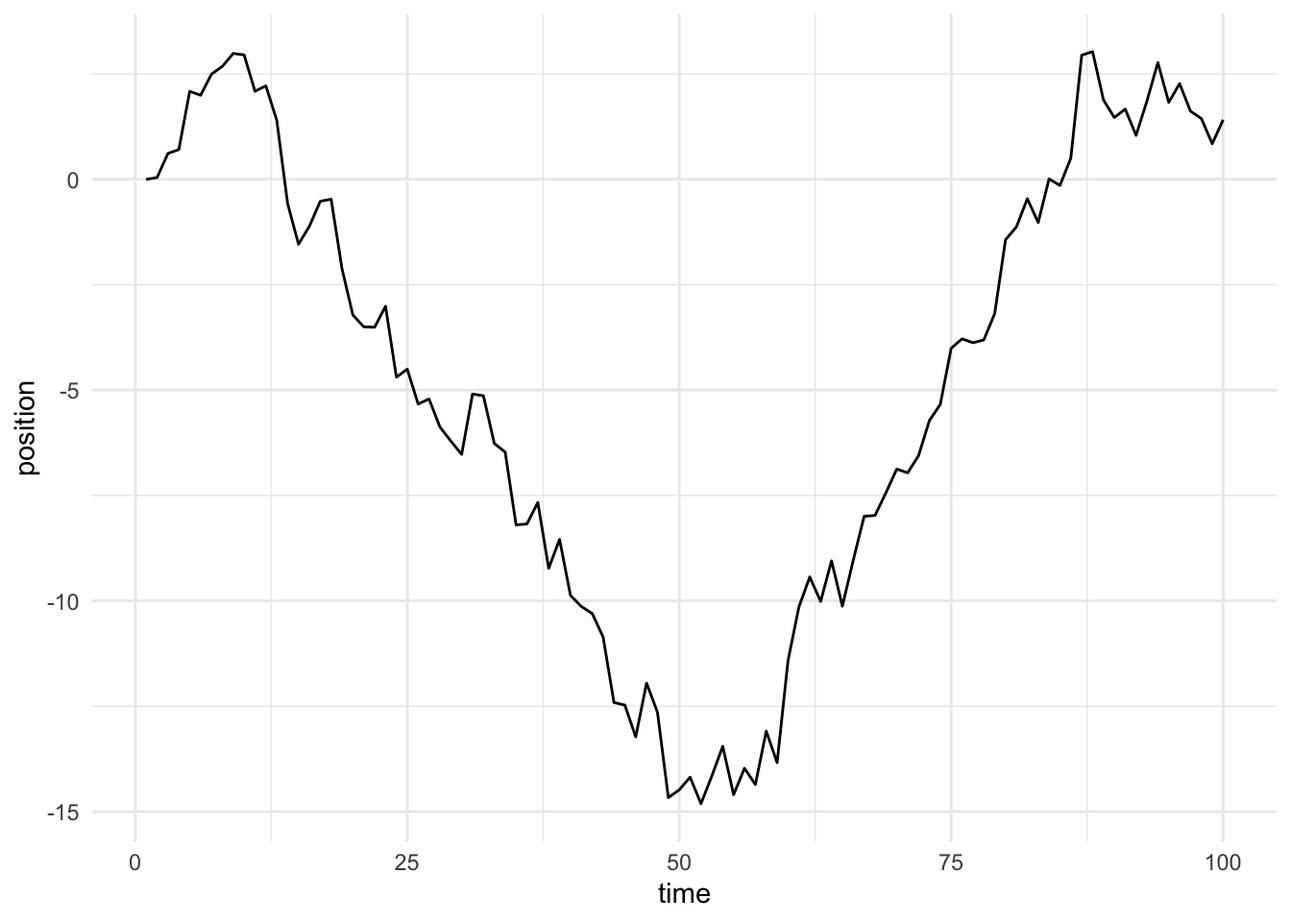
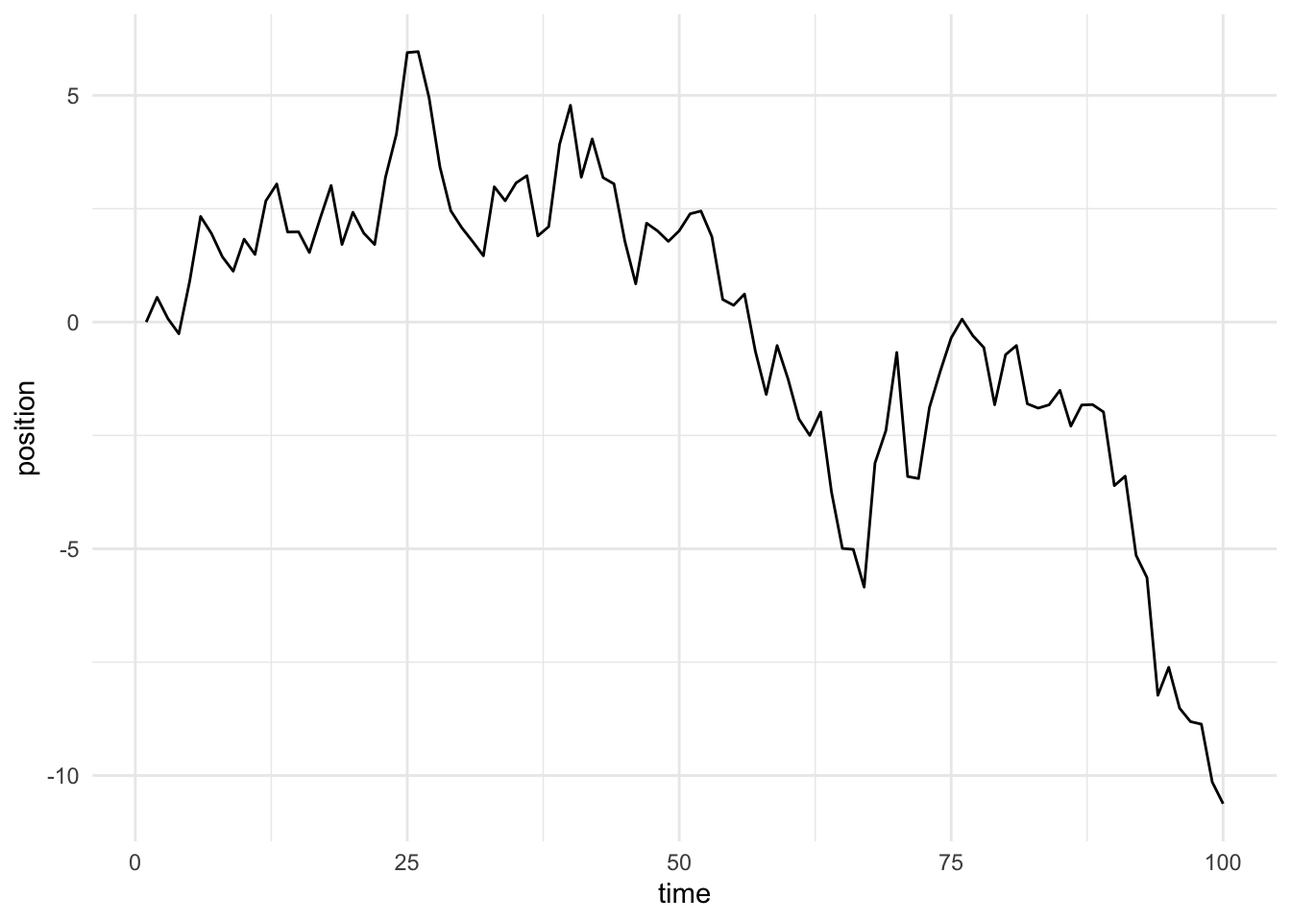
reorder

diff --git a/docs/stats-in-the-wild.html b/docs/stats-in-the-wild.html
@@ -171,9 +171,9 @@ gtag('config', '358809638', { 'anonymize_ip': true});
 <ul>
 <li><p><strong>March-November 2020 - Everyone:</strong> A 20% false negative rate on COVID-19 rapid tests means that when a test says you’re negative, there’s a 20% chance you’re positive.</p></li>
 <li><p><strong>11/7/20 - <del><span class="citation" data-cites="realDonaldTrump">@realDonaldTrump</span></del> A soon-to-be quarantined Twitter account:</strong></p>
-<p></p><div id="tweet-64174"></div><script>tweet={"url":"https:\/\/twitter.com\/realDonaldTrump\/status\/1325099845045071873","author_name":"Donald J. Trump","author_url":"https:\/\/twitter.com\/realDonaldTrump","html":"\u003Cblockquote class=\"twitter-tweet\" align=\"center\"\u003E\u003Cp lang=\"en\" dir=\"ltr\"\u003EI WON THIS ELECTION, BY A LOT!\u003C\/p\u003E&mdash; Donald J. Trump (@realDonaldTrump) \u003Ca href=\"https:\/\/twitter.com\/realDonaldTrump\/status\/1325099845045071873?ref_src=twsrc%5Etfw\"\u003ENovember 7, 2020\u003C\/a\u003E\u003C\/blockquote\u003E\n\u003Cscript async src=\"https:\/\/platform.twitter.com\/widgets.js\" charset=\"utf-8\"\u003E\u003C\/script\u003E\n","width":550,"height":null,"type":"rich","cache_age":"3153600000","provider_name":"Twitter","provider_url":"https:\/\/twitter.com","version":"1.0"};document.getElementById("tweet-64174").innerHTML = tweet["html"];</script><p></p></li>
+<p></p><div id="tweet-67033"></div><script>tweet={"url":"https:\/\/twitter.com\/realDonaldTrump\/status\/1325099845045071873","author_name":"Donald J. Trump","author_url":"https:\/\/twitter.com\/realDonaldTrump","html":"\u003Cblockquote class=\"twitter-tweet\" align=\"center\"\u003E\u003Cp lang=\"en\" dir=\"ltr\"\u003EI WON THIS ELECTION, BY A LOT!\u003C\/p\u003E&mdash; Donald J. Trump (@realDonaldTrump) \u003Ca href=\"https:\/\/twitter.com\/realDonaldTrump\/status\/1325099845045071873?ref_src=twsrc%5Etfw\"\u003ENovember 7, 2020\u003C\/a\u003E\u003C\/blockquote\u003E\n\u003Cscript async src=\"https:\/\/platform.twitter.com\/widgets.js\" charset=\"utf-8\"\u003E\u003C\/script\u003E\n","width":550,"height":null,"type":"rich","cache_age":"3153600000","provider_name":"Twitter","provider_url":"https:\/\/twitter.com","version":"1.0"};document.getElementById("tweet-67033").innerHTML = tweet["html"];</script><p></p></li>
 <li><p><strong>10/3/20 - Twitter:</strong></p>
-<p></p><div id="tweet-13281"></div><script>tweet={"url":"https:\/\/twitter.com\/RickGosselin9\/status\/1312368088499838976","author_name":"Rick Gosselin","author_url":"https:\/\/twitter.com\/RickGosselin9","html":"\u003Cblockquote class=\"twitter-tweet\" align=\"center\"\u003E\u003Cp lang=\"en\" dir=\"ltr\"\u003EThe most incredible stat about the late Bob Gibson is that he pitched more complete games (255) than he had wins (251). The man was his own bullpen. RIP.\u003C\/p\u003E&mdash; Rick Gosselin (@RickGosselin9) \u003Ca href=\"https:\/\/twitter.com\/RickGosselin9\/status\/1312368088499838976?ref_src=twsrc%5Etfw\"\u003EOctober 3, 2020\u003C\/a\u003E\u003C\/blockquote\u003E\n\u003Cscript async src=\"https:\/\/platform.twitter.com\/widgets.js\" charset=\"utf-8\"\u003E\u003C\/script\u003E\n","width":550,"height":null,"type":"rich","cache_age":"3153600000","provider_name":"Twitter","provider_url":"https:\/\/twitter.com","version":"1.0"};document.getElementById("tweet-13281").innerHTML = tweet["html"];</script><p></p></li>
+<p></p><div id="tweet-67984"></div><script>tweet={"url":"https:\/\/twitter.com\/RickGosselin9\/status\/1312368088499838976","author_name":"Rick Gosselin","author_url":"https:\/\/twitter.com\/RickGosselin9","html":"\u003Cblockquote class=\"twitter-tweet\" align=\"center\"\u003E\u003Cp lang=\"en\" dir=\"ltr\"\u003EThe most incredible stat about the late Bob Gibson is that he pitched more complete games (255) than he had wins (251). The man was his own bullpen. RIP.\u003C\/p\u003E&mdash; Rick Gosselin (@RickGosselin9) \u003Ca href=\"https:\/\/twitter.com\/RickGosselin9\/status\/1312368088499838976?ref_src=twsrc%5Etfw\"\u003EOctober 3, 2020\u003C\/a\u003E\u003C\/blockquote\u003E\n\u003Cscript async src=\"https:\/\/platform.twitter.com\/widgets.js\" charset=\"utf-8\"\u003E\u003C\/script\u003E\n","width":550,"height":null,"type":"rich","cache_age":"3153600000","provider_name":"Twitter","provider_url":"https:\/\/twitter.com","version":"1.0"};document.getElementById("tweet-67984").innerHTML = tweet["html"];</script><p></p></li>
 <li><p><strong>9/30/20:</strong> As of today, the Minnesota Twins have lost 18 consecutive playoff games.</p></li>
 <li><p><strong>9/28/20 - FanGraphs:</strong> Fernando Tatis Jr.’s BABIP and wRC+ by month in 2020.</p></li>
 </ul>
@@ -184,11 +184,11 @@ gtag('config', '358809638', { 'anonymize_ip': true});
 <li><p><strong>9/28/2020:</strong> Shane Bieber’s 2020 K/9 rate was 14.20. Although the season was shortened, if he had kept up that pace it would have been the highest K/9 rate for a starting pitcher of all time.</p></li>
 <li><p><strong>9/26/2020 - NY Times, paraphrased:</strong> A majority of voters favor the open Supreme Court seat being filled after the election, our poll found.</p></li>
 <li><p><strong>9/15/20 - Twitter:</strong></p>
-<p></p><div id="tweet-56021"></div><script>tweet={"url":"https:\/\/twitter.com\/MLBRandomStats\/status\/1305912658554740736","author_name":"Jeremy Frank","author_url":"https:\/\/twitter.com\/MLBRandomStats","html":"\u003Cblockquote class=\"twitter-tweet\" align=\"center\"\u003E\u003Cp lang=\"en\" dir=\"ltr\"\u003EMike Trout is hitting .294\/.385\/.647.... in plate appearances where he falls down 0-2 in the count\u003C\/p\u003E&mdash; Jeremy Frank (@MLBRandomStats) \u003Ca href=\"https:\/\/twitter.com\/MLBRandomStats\/status\/1305912658554740736?ref_src=twsrc%5Etfw\"\u003ESeptember 15, 2020\u003C\/a\u003E\u003C\/blockquote\u003E\n\u003Cscript async src=\"https:\/\/platform.twitter.com\/widgets.js\" charset=\"utf-8\"\u003E\u003C\/script\u003E\n","width":550,"height":null,"type":"rich","cache_age":"3153600000","provider_name":"Twitter","provider_url":"https:\/\/twitter.com","version":"1.0"};document.getElementById("tweet-56021").innerHTML = tweet["html"];</script><p></p></li>
+<p></p><div id="tweet-88127"></div><script>tweet={"url":"https:\/\/twitter.com\/MLBRandomStats\/status\/1305912658554740736","author_name":"Jeremy Frank","author_url":"https:\/\/twitter.com\/MLBRandomStats","html":"\u003Cblockquote class=\"twitter-tweet\" align=\"center\"\u003E\u003Cp lang=\"en\" dir=\"ltr\"\u003EMike Trout is hitting .294\/.385\/.647.... in plate appearances where he falls down 0-2 in the count\u003C\/p\u003E&mdash; Jeremy Frank (@MLBRandomStats) \u003Ca href=\"https:\/\/twitter.com\/MLBRandomStats\/status\/1305912658554740736?ref_src=twsrc%5Etfw\"\u003ESeptember 15, 2020\u003C\/a\u003E\u003C\/blockquote\u003E\n\u003Cscript async src=\"https:\/\/platform.twitter.com\/widgets.js\" charset=\"utf-8\"\u003E\u003C\/script\u003E\n","width":550,"height":null,"type":"rich","cache_age":"3153600000","provider_name":"Twitter","provider_url":"https:\/\/twitter.com","version":"1.0"};document.getElementById("tweet-88127").innerHTML = tweet["html"];</script><p></p></li>
 <li><p><strong>9/12/20 - Lakers vs.&nbsp;Rockets Broadcast on ESPN:</strong> The Lakers are 31-1 in series once they go up 3-1.</p></li>
 <li><p><strong>9/6/20:</strong> As of the end of the Orioles game on 9/5/2020, DJ Stewart had a batting average of .105 and a slugging percentage of .421.</p></li>
 <li><p><strong>8/8/20 - Nate Silver:</strong> The whole conversation between Silver and Morris.</p>
-<p></p><div id="tweet-90895"></div><script>tweet={"url":"https:\/\/twitter.com\/NateSilver538\/status\/1292287935405010947","author_name":"Nate Silver","author_url":"https:\/\/twitter.com\/NateSilver538","html":"\u003Cblockquote class=\"twitter-tweet\" align=\"center\"\u003E\u003Cp lang=\"en\" dir=\"ltr\"\u003ETo put it another way, the easy part of forecasting is fitting a model and the hard part is knowing when the best fit on past data will yield a worse forecast on unknown data.\u003C\/p\u003E&mdash; Nate Silver (@NateSilver538) \u003Ca href=\"https:\/\/twitter.com\/NateSilver538\/status\/1292287935405010947?ref_src=twsrc%5Etfw\"\u003EAugust 9, 2020\u003C\/a\u003E\u003C\/blockquote\u003E\n\u003Cscript async src=\"https:\/\/platform.twitter.com\/widgets.js\" charset=\"utf-8\"\u003E\u003C\/script\u003E\n","width":550,"height":null,"type":"rich","cache_age":"3153600000","provider_name":"Twitter","provider_url":"https:\/\/twitter.com","version":"1.0"};document.getElementById("tweet-90895").innerHTML = tweet["html"];</script><p></p></li>
+<p></p><div id="tweet-68391"></div><script>tweet={"url":"https:\/\/twitter.com\/NateSilver538\/status\/1292287935405010947","author_name":"Nate Silver","author_url":"https:\/\/twitter.com\/NateSilver538","html":"\u003Cblockquote class=\"twitter-tweet\" align=\"center\"\u003E\u003Cp lang=\"en\" dir=\"ltr\"\u003ETo put it another way, the easy part of forecasting is fitting a model and the hard part is knowing when the best fit on past data will yield a worse forecast on unknown data.\u003C\/p\u003E&mdash; Nate Silver (@NateSilver538) \u003Ca href=\"https:\/\/twitter.com\/NateSilver538\/status\/1292287935405010947?ref_src=twsrc%5Etfw\"\u003EAugust 9, 2020\u003C\/a\u003E\u003C\/blockquote\u003E\n\u003Cscript async src=\"https:\/\/platform.twitter.com\/widgets.js\" charset=\"utf-8\"\u003E\u003C\/script\u003E\n","width":550,"height":null,"type":"rich","cache_age":"3153600000","provider_name":"Twitter","provider_url":"https:\/\/twitter.com","version":"1.0"};document.getElementById("tweet-68391").innerHTML = tweet["html"];</script><p></p></li>
 <li><p><strong>7/30/20 - NY Times, paraphrased:</strong> U.S. economic output fell by 9% last quarter. That translates to a 36% annual rate of decline.</p></li>
 <li><p><strong>7/23/20 - ESPN Opening Day Broadcast of Yankees-Nationals:</strong> Max Scherzer is the first pitcher since 1893 to strike out ten or more batters in three consecutive opening day starts.</p></li>
 <li><p><strong>7/13/20 - The Economist:</strong> As of today, July 13, 2020, The Economist’s presidential prediction (co-signed by Gelman) gives Biden a 91% chance of winning the election.</p>
@@ -203,10 +203,10 @@ gtag('config', '358809638', { 'anonymize_ip': true});
 <script async="" src="https://embed.reddit.com/widgets.js" charset="UTF-8"></script></li>
 <li><p><strong>6/11/20 - NPR Up First Podcast:</strong> “Joe Biden has substantial leads in a wave of new polls, and many of them are ten point leads. And as to the ‘What about 2016?’ response that I can already hear listeners saying into my ears, here’s the big difference: Joe Biden is over 50% in a lot of those polls, and that is a mark that Hillary Clinton very rarely got to, that makes the lead a lot more durable.” The “What about 2016” critique being referenced is the fact that many news outlets (Huffington Post, NY Times, etc.) gave Clinton greater than a 95% chance of winning the election (FiveThirtyEight gave her around a 65-70% chance, at best). Obviously, she ended up losing, sparking outrage towards and confusion over those seemingly overly-optimistic projections. As of today, June 11th, 2020, <a href="https://www.predictit.org/markets/detail/3698">PredictIt</a> gives Biden <em>roughly</em> a 55% chance of winning.</p></li>
 <li><p><strong>6/6/20 - CNBC:</strong> A V-shaped recovery!</p>
-<p></p><div id="tweet-52437"></div><script>tweet={"url":"https:\/\/twitter.com\/CNBC\/status\/1268927124452380672","author_name":"CNBC","author_url":"https:\/\/twitter.com\/CNBC","html":"\u003Cblockquote class=\"twitter-tweet\" align=\"center\"\u003E\u003Cp lang=\"en\" dir=\"ltr\"\u003EThe better-than-expected jobs report follows a series of other recent data that points to a V-shaped recovery. Take a look at these charts: \u003Ca href=\"https:\/\/t.co\/npQxnfQ6mh\"\u003Ehttps:\/\/t.co\/npQxnfQ6mh\u003C\/a\u003E \u003Ca href=\"https:\/\/t.co\/VFfZjVMaUz\"\u003Epic.twitter.com\/VFfZjVMaUz\u003C\/a\u003E\u003C\/p\u003E&mdash; CNBC (@CNBC) \u003Ca href=\"https:\/\/twitter.com\/CNBC\/status\/1268927124452380672?ref_src=twsrc%5Etfw\"\u003EJune 5, 2020\u003C\/a\u003E\u003C\/blockquote\u003E\n\u003Cscript async src=\"https:\/\/platform.twitter.com\/widgets.js\" charset=\"utf-8\"\u003E\u003C\/script\u003E\n","width":550,"height":null,"type":"rich","cache_age":"3153600000","provider_name":"Twitter","provider_url":"https:\/\/twitter.com","version":"1.0"};document.getElementById("tweet-52437").innerHTML = tweet["html"];</script><p></p></li>
+<p></p><div id="tweet-56849"></div><script>tweet={"url":"https:\/\/twitter.com\/CNBC\/status\/1268927124452380672","author_name":"CNBC","author_url":"https:\/\/twitter.com\/CNBC","html":"\u003Cblockquote class=\"twitter-tweet\" align=\"center\"\u003E\u003Cp lang=\"en\" dir=\"ltr\"\u003EThe better-than-expected jobs report follows a series of other recent data that points to a V-shaped recovery. Take a look at these charts: \u003Ca href=\"https:\/\/t.co\/npQxnfQ6mh\"\u003Ehttps:\/\/t.co\/npQxnfQ6mh\u003C\/a\u003E \u003Ca href=\"https:\/\/t.co\/VFfZjVMaUz\"\u003Epic.twitter.com\/VFfZjVMaUz\u003C\/a\u003E\u003C\/p\u003E&mdash; CNBC (@CNBC) \u003Ca href=\"https:\/\/twitter.com\/CNBC\/status\/1268927124452380672?ref_src=twsrc%5Etfw\"\u003EJune 5, 2020\u003C\/a\u003E\u003C\/blockquote\u003E\n\u003Cscript async src=\"https:\/\/platform.twitter.com\/widgets.js\" charset=\"utf-8\"\u003E\u003C\/script\u003E\n","width":550,"height":null,"type":"rich","cache_age":"3153600000","provider_name":"Twitter","provider_url":"https:\/\/twitter.com","version":"1.0"};document.getElementById("tweet-56849").innerHTML = tweet["html"];</script><p></p></li>
 <li><p><strong>5/14/20 - FiveThirtyEight Politics Podcast:</strong> When asked who they voted for in an election, a larger share of people respond that they had voted for the winning candidate than the share that actually voted for said candidate.</p></li>
 <li><p><strong>5/5/20 - CEA:</strong> (oh my god, people are going to die because of this)</p>
-<p></p><div id="tweet-15676"></div><script>tweet={"url":"https:\/\/twitter.com\/WhiteHouseCEA45\/status\/1257680258364555264","author_name":"CEA45 Archived","author_url":"https:\/\/twitter.com\/WhiteHouseCEA45","html":"\u003Cblockquote class=\"twitter-tweet\" align=\"center\"\u003E\u003Cp lang=\"en\" dir=\"ltr\"\u003ETo better visualize observed data, we also continually update a curve-fitting exercise to summarize COVID-19&#39;s observed trajectory. Particularly with irregular data, curve fitting can improve data visualization. As shown, IHME&#39;s mortality curves have matched the data fairly well. \u003Ca href=\"https:\/\/t.co\/NtJcOdA98R\"\u003Epic.twitter.com\/NtJcOdA98R\u003C\/a\u003E\u003C\/p\u003E&mdash; CEA45 Archived (@WhiteHouseCEA45) \u003Ca href=\"https:\/\/twitter.com\/WhiteHouseCEA45\/status\/1257680258364555264?ref_src=twsrc%5Etfw\"\u003EMay 5, 2020\u003C\/a\u003E\u003C\/blockquote\u003E\n\u003Cscript async src=\"https:\/\/platform.twitter.com\/widgets.js\" charset=\"utf-8\"\u003E\u003C\/script\u003E\n","width":550,"height":null,"type":"rich","cache_age":"3153600000","provider_name":"Twitter","provider_url":"https:\/\/twitter.com","version":"1.0"};document.getElementById("tweet-15676").innerHTML = tweet["html"];</script><p></p></li>
+<p></p><div id="tweet-81152"></div><script>tweet={"url":"https:\/\/twitter.com\/WhiteHouseCEA45\/status\/1257680258364555264","author_name":"CEA45 Archived","author_url":"https:\/\/twitter.com\/WhiteHouseCEA45","html":"\u003Cblockquote class=\"twitter-tweet\" align=\"center\"\u003E\u003Cp lang=\"en\" dir=\"ltr\"\u003ETo better visualize observed data, we also continually update a curve-fitting exercise to summarize COVID-19&#39;s observed trajectory. Particularly with irregular data, curve fitting can improve data visualization. As shown, IHME&#39;s mortality curves have matched the data fairly well. \u003Ca href=\"https:\/\/t.co\/NtJcOdA98R\"\u003Epic.twitter.com\/NtJcOdA98R\u003C\/a\u003E\u003C\/p\u003E&mdash; CEA45 Archived (@WhiteHouseCEA45) \u003Ca href=\"https:\/\/twitter.com\/WhiteHouseCEA45\/status\/1257680258364555264?ref_src=twsrc%5Etfw\"\u003EMay 5, 2020\u003C\/a\u003E\u003C\/blockquote\u003E\n\u003Cscript async src=\"https:\/\/platform.twitter.com\/widgets.js\" charset=\"utf-8\"\u003E\u003C\/script\u003E\n","width":550,"height":null,"type":"rich","cache_age":"3153600000","provider_name":"Twitter","provider_url":"https:\/\/twitter.com","version":"1.0"};document.getElementById("tweet-81152").innerHTML = tweet["html"];</script><p></p></li>
 <li><p><strong>4/2/20 - FiveThirtyEight:</strong> <a href="https://fivethirtyeight.com/features/best-case-and-worst-case-coronavirus-forecasts-are-very-far-apart/">This FiveThirtyEight article.</a></p></li>
 <li><p><strong>4/2/20 - The New York Times:</strong> <a href="https://www.nytimes.com/interactive/2020/04/02/us/coronavirus-social-distancing.html">These maps.</a></p></li>
 <li><p><strong>3/15/20 - FiveThirtyEight:</strong> Teams with Cristiano Ronaldo on them are 5-0 against Atletico Madrid in Champions League knockout stage games in the last 10 years. Everyone else is 0-9.</p></li>

diff --git a/docs/posts/2021-01-13-a-gentle-introduction-to-markov-chains-and-mcmc/index.html b/docs/posts/2021-01-13-a-gentle-introduction-to-markov-chains-and-mcmc/index.html
@@ -312,15 +312,15 @@ p(x_{t+1} | x_{t}, x_{t-1}, x_{t-2}, .. x_{0}) = p(x_{t+1} | x_{t})
    position
       &lt;dbl&gt;
  1   0     
- 2   0.0434
- 3   0.615 
- 4   0.707 
- 5   2.09  
- 6   1.99  
- 7   2.49  
- 8   2.68  
- 9   2.99  
-10   2.95  
+ 2   0.546 
+ 3   0.0744
+ 4  -0.257 
+ 5   0.905 
+ 6   2.33  
+ 7   1.95  
+ 8   1.44  
+ 9   1.12  
+10   1.83  
 # … with 90 more rows</code></pre>
 </div>
 </div>
@@ -454,13 +454,13 @@ p(x_{t+1} | x_{t}, x_{t-1}, x_{t-2}, .. x_{0}) = p(x_{t+1} | x_{t})
 <pre><code># A tibble: 4 × 4
   island days_spent day_proportion error_margin
    &lt;dbl&gt;      &lt;int&gt;          &lt;dbl&gt;        &lt;dbl&gt;
-1      1       1022          0.102      0.0220 
-2      2       2042          0.204      0.0210 
-3      3       2985          0.298     -0.00500
-4      4       3951          0.395     -0.0122 </code></pre>
+1      1       1002          0.100      0.00200
+2      2       1940          0.194     -0.0300 
+3      3       3023          0.302      0.00767
+4      4       4035          0.404      0.00875</code></pre>
 </div>
 </div>
-<p>Much better! After 10,000 iterations, we’re spending almost the exact proportion of time on each island that we want to be, as evidenced by the tiny error margins. In addition, the standard deviation of the error margins is 0.01765, which is tiny. That’s awesome! But what about if the system is more complex? Like, what if we had 100 islands?</p>
+<p>Much better! After 10,000 iterations, we’re spending almost the exact proportion of time on each island that we want to be, as evidenced by the tiny error margins. In addition, the standard deviation of the error margins is 0.01831, which is tiny. That’s awesome! But what about if the system is more complex? Like, what if we had 100 islands?</p>
 <div class="cell" data-layout-align="center">
 <div class="sourceCode cell-code" id="cb10"><pre class="sourceCode r code-with-copy"><code class="sourceCode r"><span id="cb10-1"><a href="#cb10-1" aria-hidden="true" tabindex="-1"></a>more_islands <span class="ot">&lt;-</span> <span class="fu">run_rwmh</span>(<span class="at">n_iters =</span> <span class="dv">10000</span>, <span class="at">island_populations =</span> <span class="dv">1</span><span class="sc">:</span><span class="dv">100</span>) <span class="sc">%&gt;%</span></span>
 <span id="cb10-2"><a href="#cb10-2" aria-hidden="true" tabindex="-1"></a>  <span class="fu">tibble</span>(<span class="at">island =</span> .) <span class="sc">%&gt;%</span></span>
@@ -476,20 +476,20 @@ p(x_{t+1} | x_{t}, x_{t-1}, x_{t-2}, .. x_{0}) = p(x_{t+1} | x_{t})
 <pre><code># A tibble: 100 × 4
    island days_spent day_proportion error_margin
     &lt;dbl&gt;      &lt;int&gt;          &lt;dbl&gt;        &lt;dbl&gt;
- 1      1          1         0.0001      -0.495 
- 2      2          3         0.0003      -0.243 
- 3      3          6         0.0006       0.0100
- 4      4         11         0.0011       0.389 
- 5      5         11         0.0011       0.111 
- 6      6         17         0.0017       0.431 
- 7      7         15         0.0015       0.0821
- 8      8         17         0.0017       0.0731
- 9      9         19         0.0019       0.0661
-10     10         14         0.0014      -0.293 
+ 1      1          2         0.0002       0.0100
+ 2      2          8         0.0008       1.02  
+ 3      3          4         0.0004      -0.327 
+ 4      4          6         0.0006      -0.243 
+ 5      5          8         0.0008      -0.192 
+ 6      6         13         0.0013       0.0942
+ 7      7         22         0.0022       0.587 
+ 8      8         14         0.0014      -0.116 
+ 9      9         11         0.0011      -0.383 
+10     10         16         0.0016      -0.192 
 # … with 90 more rows</code></pre>
 </div>
 </div>
-<p>No problem! Even with the extra islands, the mean error margin is still zero, and the standard deviation of the error margins is 0.15951, which is also small, but not as small as the simpler system. It’s true that a more complex system (i.e.&nbsp;more islands) would mean that we need more iterations to converge in probability to the proportions we’re shooting for, but the algorithm will still work with enough time. Let’s try running it one more time on the complex system, but this time with a million iterations.</p>
+<p>No problem! Even with the extra islands, the mean error margin is still zero, and the standard deviation of the error margins is 0.18309, which is also small, but not as small as the simpler system. It’s true that a more complex system (i.e.&nbsp;more islands) would mean that we need more iterations to converge in probability to the proportions we’re shooting for, but the algorithm will still work with enough time. Let’s try running it one more time on the complex system, but this time with a million iterations.</p>
 <div class="cell" data-layout-align="center">
 <div class="sourceCode cell-code" id="cb12"><pre class="sourceCode r code-with-copy"><code class="sourceCode r"><span id="cb12-1"><a href="#cb12-1" aria-hidden="true" tabindex="-1"></a>more_iters <span class="ot">&lt;-</span> <span class="fu">run_rwmh</span>(<span class="at">n_iters =</span> <span class="dv">1000000</span>, <span class="at">island_populations =</span> <span class="dv">1</span><span class="sc">:</span><span class="dv">100</span>) <span class="sc">%&gt;%</span></span>
 <span id="cb12-2"><a href="#cb12-2" aria-hidden="true" tabindex="-1"></a>  <span class="fu">tibble</span>(<span class="at">island =</span> .) <span class="sc">%&gt;%</span></span>
@@ -505,20 +505,20 @@ p(x_{t+1} | x_{t}, x_{t-1}, x_{t-2}, .. x_{0}) = p(x_{t+1} | x_{t})
 <pre><code># A tibble: 100 × 4
    island days_spent day_proportion error_margin
     &lt;dbl&gt;      &lt;int&gt;          &lt;dbl&gt;        &lt;dbl&gt;
- 1      1        229       0.000229      0.156  
- 2      2        404       0.000404      0.0201 
- 3      3        576       0.000576     -0.0304 
- 4      4        779       0.000779     -0.0165 
- 5      5       1009       0.00101       0.0191 
- 6      6       1207       0.00121       0.0159 
- 7      7       1336       0.00134      -0.0362 
- 8      8       1576       0.00158      -0.00515
- 9      9       1740       0.00174      -0.0237 
-10     10       1974       0.00197      -0.00313
+ 1      1        210       0.00021       0.0605 
+ 2      2        388       0.000388     -0.0203 
+ 3      3        624       0.000624      0.0504 
+ 4      4        808       0.000808      0.0201 
+ 5      5       1013       0.00101       0.0231 
+ 6      6       1218       0.00122       0.0252 
+ 7      7       1378       0.00138      -0.00587
+ 8      8       1579       0.00158      -0.00326
+ 9      9       1846       0.00185       0.0358 
+10     10       1934       0.00193      -0.0233 
 # … with 90 more rows</code></pre>
 </div>
 </div>
-<p>Looks like that did the trick! The standard deviation of the error margins fell to 0.02297, just as we expected.</p>
+<p>Looks like that did the trick! The standard deviation of the error margins fell to 0.01698, just as we expected.</p>
 <p>This algorithm is called the Metropolis-Hastings Algorithm, and it’s one of many in the class of Markov Chain Monte Carlo algorithms. Some others are the Gibbs Sampler and Hamiltonian Monte Carlo, both of which are frequently used in Bayesian statistics for estimating the parameters of regression models with hundreds of thousands of parameters. In short, these algorithms allow us to solve problems that were literally impossible to solve only two decades ago or so, which is an amazing feat!</p>
 </section>
 <section id="recap" class="level1">

diff --git a/docs/travel.html b/docs/travel.html
@@ -158,40 +158,40 @@ gtag('config', '358809638', { 'anonymize_ip': true});
 
 </header>
 
-<p><img src="photos/travel/arbeit-macht-frei.jpg" class="img-fluid" style="width:100.0%"></p>
-<p><img src="photos/travel/guell-1.jpg" class="img-fluid" style="width:100.0%"></p>
-<p><img src="photos/travel/chichen-itza.jpg" class="img-fluid" style="width:100.0%"></p>
-<p><img src="photos/travel/times-square-covid.jpg" class="img-fluid" style="width:100.0%"></p>
-<p><img src="photos/travel/sarajevo-bobsled.jpg" class="img-fluid" style="width:100.0%"></p>
-<p><img src="photos/travel/positano.jpg" class="img-fluid" style="width:100.0%"></p>
-<p><img src="photos/travel/dubrovnik.jpg" class="img-fluid" style="width:100.0%"></p>
-<p><img src="photos/travel/sol-32.jpg" class="img-fluid" style="width:100.0%"></p>
-<p><img src="photos/travel/krakow.jpg" class="img-fluid" style="width:100.0%"></p>
-<p><img src="photos/travel/copenhagen-bikes.jpg" class="img-fluid" style="width:100.0%"></p>
-<p><img src="photos/travel/hungarian-parliament.jpg" class="img-fluid" style="width:100.0%"></p>
-<p><img src="photos/travel/alta.jpg" class="img-fluid" style="width:100.0%"></p>
-<p><img src="photos/travel/sthlm.jpg" class="img-fluid" style="width:100.0%"></p>
-<p><img src="photos/travel/costa-rica-waterfall.jpg" class="img-fluid" style="width:100.0%"></p>
-<p><img src="photos/travel/nyhavn.jpg" class="img-fluid" style="width:100.0%"></p>
-<p><img src="photos/travel/tallinn.jpg" class="img-fluid" style="width:100.0%"></p>
-<p><img src="photos/travel/plitvice.jpg" class="img-fluid" style="width:100.0%"></p>
-<p><img src="photos/travel/guell-sunrise.jpg" class="img-fluid" style="width:100.0%"></p>
-<p><img src="photos/travel/tivoli.jpeg" class="img-fluid" style="width:100.0%"></p>
-<p><img src="photos/travel/rural-croatia.jpg" class="img-fluid" style="width:100.0%"></p>
-<p><img src="photos/travel/salzburg.jpg" class="img-fluid" style="width:100.0%"></p>
-<p><img src="photos/travel/zagreb.jpg" class="img-fluid" style="width:100.0%"></p>
 <p><img src="photos/travel/galapagos.jpg" class="img-fluid" style="width:100.0%"></p>
-<p><img src="photos/travel/costa-rica-selva.jpg" class="img-fluid" style="width:100.0%"></p>
-<p><img src="photos/travel/christiania.jpg" class="img-fluid" style="width:100.0%"></p>
-<p><img src="photos/travel/blomqvist.jpg" class="img-fluid" style="width:100.0%"></p>
+<p><img src="photos/travel/fishermans-bastion.jpg" class="img-fluid" style="width:100.0%"></p>
+<p><img src="photos/travel/cartagena.jpg" class="img-fluid" style="width:100.0%"></p>
+<p><img src="photos/travel/sol-32.jpg" class="img-fluid" style="width:100.0%"></p>
+<p><img src="photos/travel/hungarian-parliament.jpg" class="img-fluid" style="width:100.0%"></p>
+<p><img src="photos/travel/arbeit-macht-frei.jpg" class="img-fluid" style="width:100.0%"></p>
+<p><img src="photos/travel/nyhavn.jpg" class="img-fluid" style="width:100.0%"></p>
+<p><img src="photos/travel/cuba.jpg" class="img-fluid" style="width:100.0%"></p>
 <p><img src="photos/travel/split.jpg" class="img-fluid" style="width:100.0%"></p>
 <p><img src="photos/travel/dumbo-covid.jpg" class="img-fluid" style="width:100.0%"></p>
+<p><img src="photos/travel/rural-croatia.jpg" class="img-fluid" style="width:100.0%"></p>
+<p><img src="photos/travel/alta.jpg" class="img-fluid" style="width:100.0%"></p>
+<p><img src="photos/travel/salzburg.jpg" class="img-fluid" style="width:100.0%"></p>
+<p><img src="photos/travel/tivoli.jpeg" class="img-fluid" style="width:100.0%"></p>
+<p><img src="photos/travel/plitvice.jpg" class="img-fluid" style="width:100.0%"></p>
+<p><img src="photos/travel/costa-rica-selva.jpg" class="img-fluid" style="width:100.0%"></p>
+<p><img src="photos/travel/krakow.jpg" class="img-fluid" style="width:100.0%"></p>
+<p><img src="photos/travel/tallinn.jpg" class="img-fluid" style="width:100.0%"></p>
+<p><img src="photos/travel/guell-sunrise.jpg" class="img-fluid" style="width:100.0%"></p>
+<p><img src="photos/travel/copenhagen-bikes.jpg" class="img-fluid" style="width:100.0%"></p>
+<p><img src="photos/travel/dubrovnik.jpg" class="img-fluid" style="width:100.0%"></p>
+<p><img src="photos/travel/sthlm.jpg" class="img-fluid" style="width:100.0%"></p>
+<p><img src="photos/travel/san-gimingano.jpg" class="img-fluid" style="width:100.0%"></p>
+<p><img src="photos/travel/positano.jpg" class="img-fluid" style="width:100.0%"></p>
+<p><img src="photos/travel/times-square-covid.jpg" class="img-fluid" style="width:100.0%"></p>
 <p><img src="photos/travel/brooklyn-bridge-park-covid.jpg" class="img-fluid" style="width:100.0%"></p>
 <p><img src="photos/travel/xander.jpg" class="img-fluid" style="width:100.0%"></p>
-<p><img src="photos/travel/san-gimingano.jpg" class="img-fluid" style="width:100.0%"></p>
-<p><img src="photos/travel/cartagena.jpg" class="img-fluid" style="width:100.0%"></p>
-<p><img src="photos/travel/fishermans-bastion.jpg" class="img-fluid" style="width:100.0%"></p>
-<p><img src="photos/travel/cuba.jpg" class="img-fluid" style="width:100.0%"></p>
+<p><img src="photos/travel/zagreb.jpg" class="img-fluid" style="width:100.0%"></p>
+<p><img src="photos/travel/costa-rica-waterfall.jpg" class="img-fluid" style="width:100.0%"></p>
+<p><img src="photos/travel/blomqvist.jpg" class="img-fluid" style="width:100.0%"></p>
+<p><img src="photos/travel/christiania.jpg" class="img-fluid" style="width:100.0%"></p>
+<p><img src="photos/travel/guell-1.jpg" class="img-fluid" style="width:100.0%"></p>
+<p><img src="photos/travel/sarajevo-bobsled.jpg" class="img-fluid" style="width:100.0%"></p>
+<p><img src="photos/travel/chichen-itza.jpg" class="img-fluid" style="width:100.0%"></p>
 
 
 

diff --git a/docs/posts/2023-03-09-on-auc-roc/index.html b/docs/posts/2023-03-09-on-auc-roc/index.html
@@ -373,33 +373,33 @@ gtag('config', '358809638', { 'anonymize_ip': true});
 <tbody>
   <tr>
    <td style="text-align:left;"> 1 </td>
-   <td style="text-align:right;"> 30.4 </td>
-   <td style="text-align:right;"> 4 </td>
-  </tr>
-  <tr>
-   <td style="text-align:left;"> 1 </td>
    <td style="text-align:right;"> 18.1 </td>
    <td style="text-align:right;"> 6 </td>
   </tr>
   <tr>
-   <td style="text-align:left;"> 0 </td>
-   <td style="text-align:right;"> 19.7 </td>
+   <td style="text-align:left;"> 1 </td>
+   <td style="text-align:right;"> 19.2 </td>
    <td style="text-align:right;"> 6 </td>
   </tr>
   <tr>
    <td style="text-align:left;"> 1 </td>
-   <td style="text-align:right;"> 27.3 </td>
+   <td style="text-align:right;"> 33.9 </td>
    <td style="text-align:right;"> 4 </td>
   </tr>
   <tr>
    <td style="text-align:left;"> 0 </td>
-   <td style="text-align:right;"> 10.4 </td>
+   <td style="text-align:right;"> 15.8 </td>
    <td style="text-align:right;"> 8 </td>
   </tr>
   <tr>
-   <td style="text-align:left;"> 1 </td>
-   <td style="text-align:right;"> 30.4 </td>
-   <td style="text-align:right;"> 4 </td>
+   <td style="text-align:left;"> 0 </td>
+   <td style="text-align:right;"> 21.0 </td>
+   <td style="text-align:right;"> 6 </td>
+  </tr>
+  <tr>
+   <td style="text-align:left;"> 0 </td>
+   <td style="text-align:right;"> 15.0 </td>
+   <td style="text-align:right;"> 8 </td>
   </tr>
 </tbody>
 </table>
